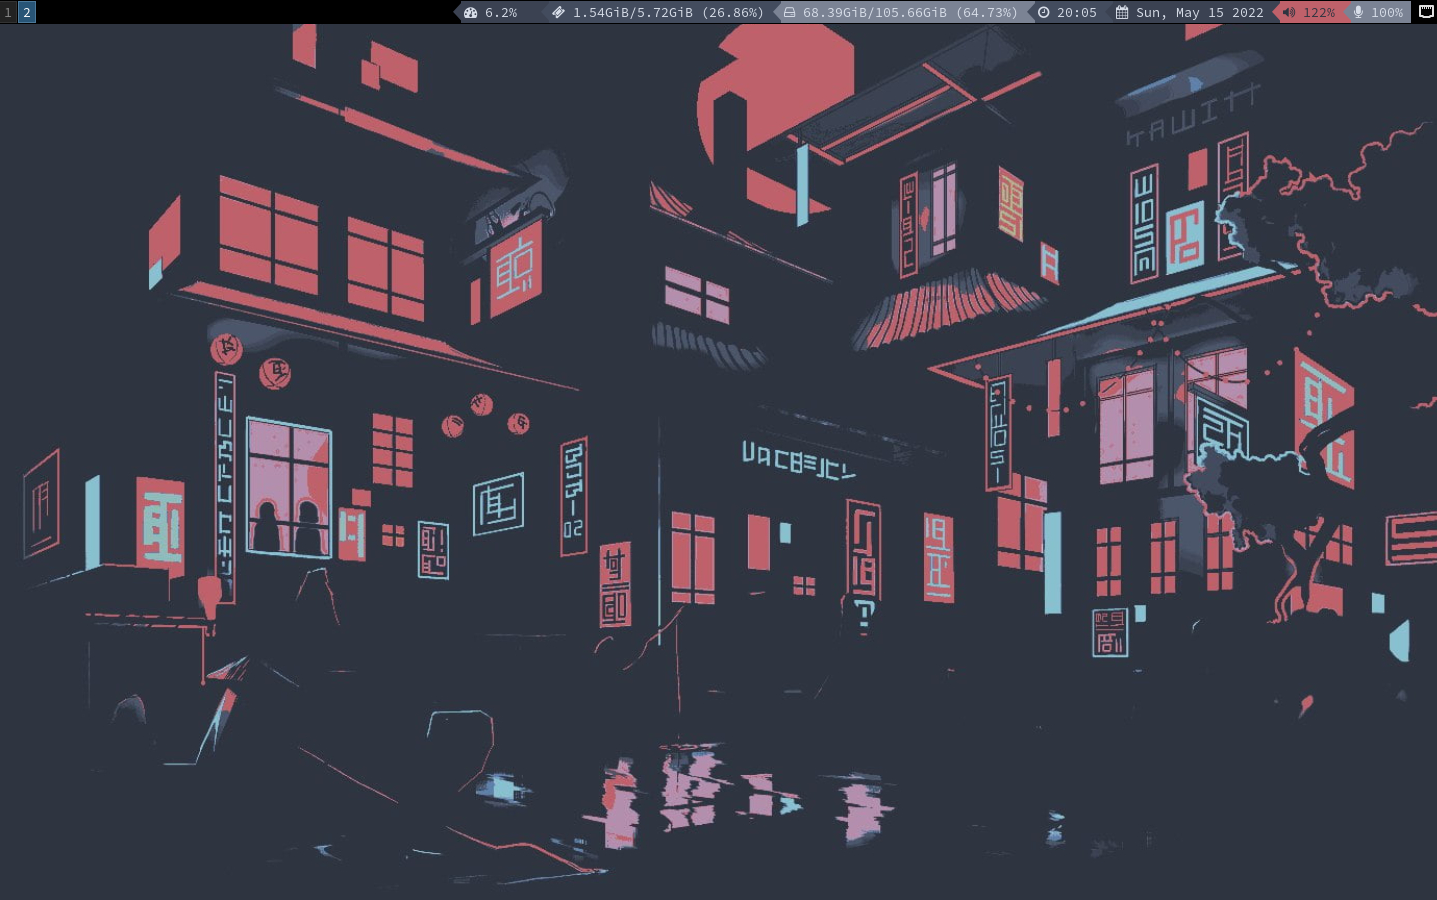
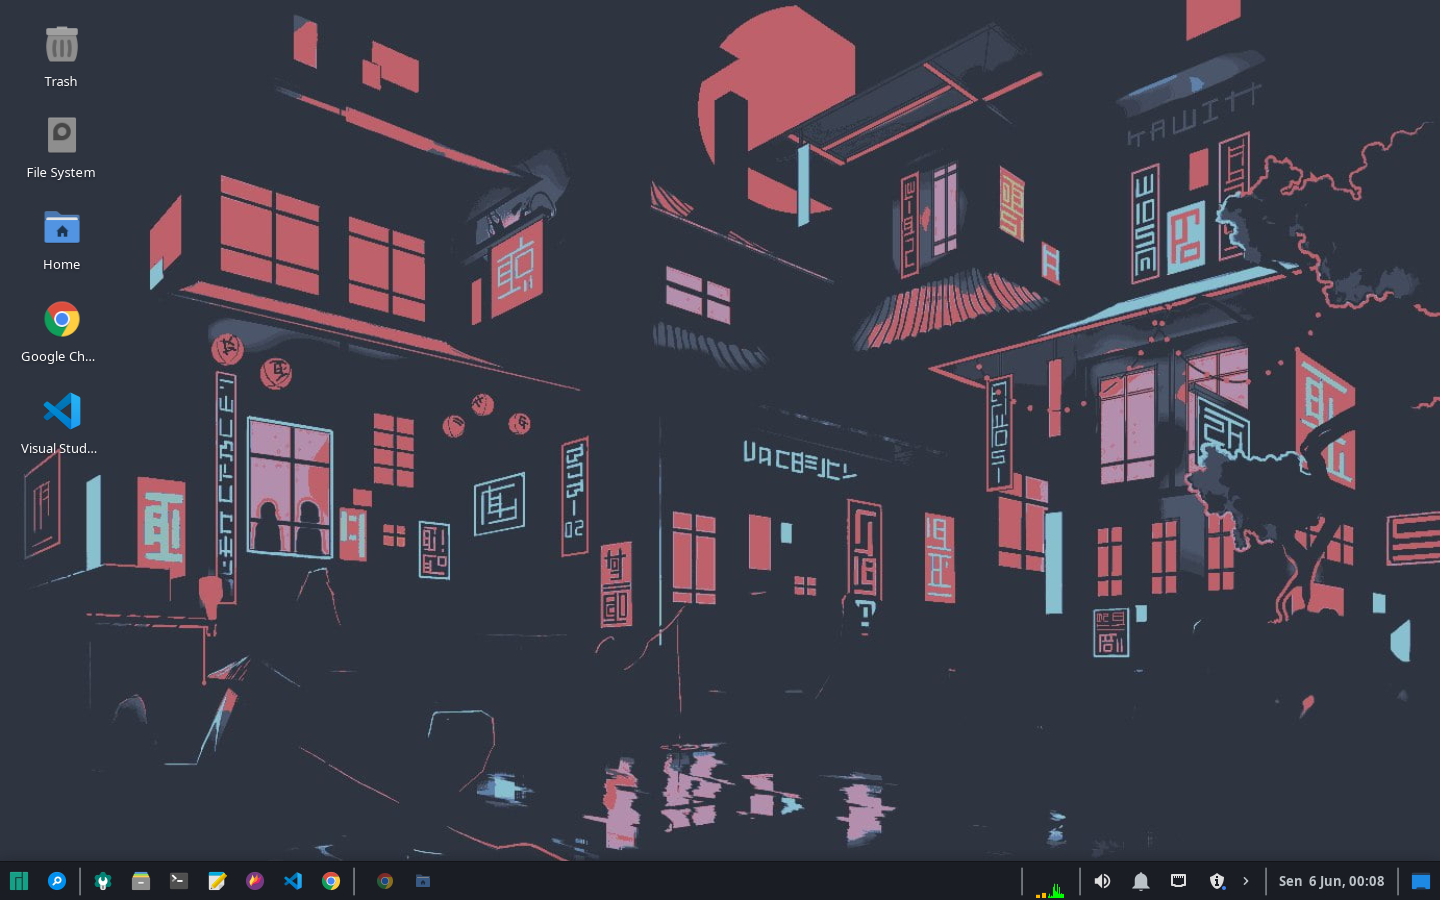
switch to xfce4, change showcases

diff --git a/alacritty/README.md b/alacritty/README.md
@@ -1,0 +1,3 @@
+# Alacritty
+
+NOTE: MesloLGS NF is required.
